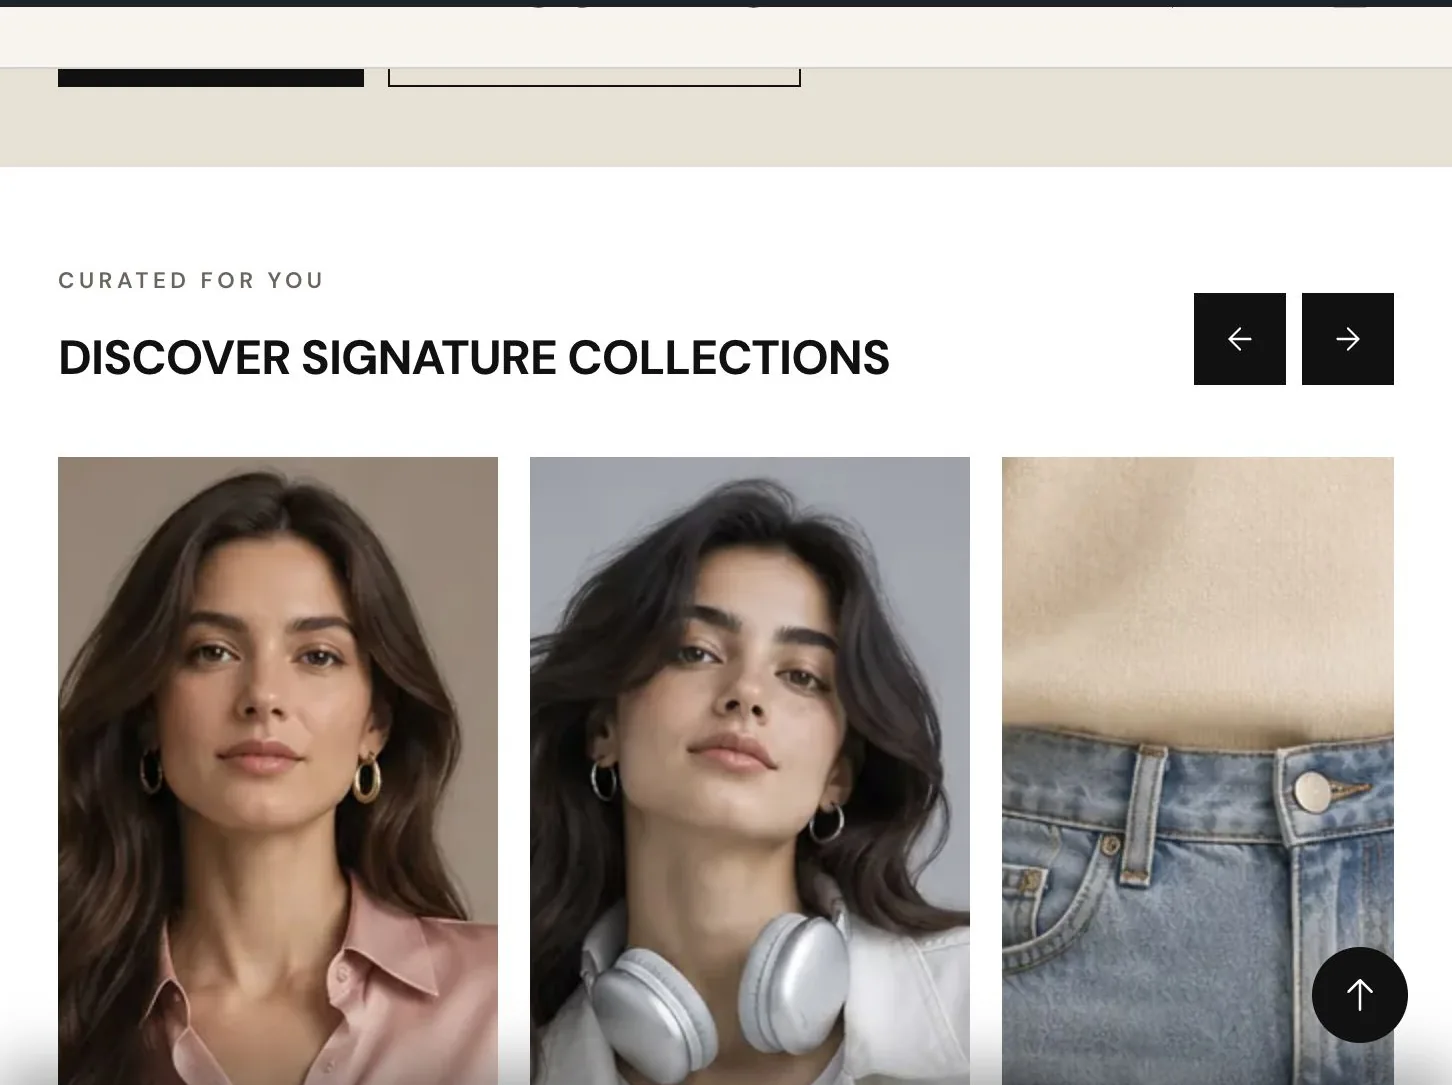
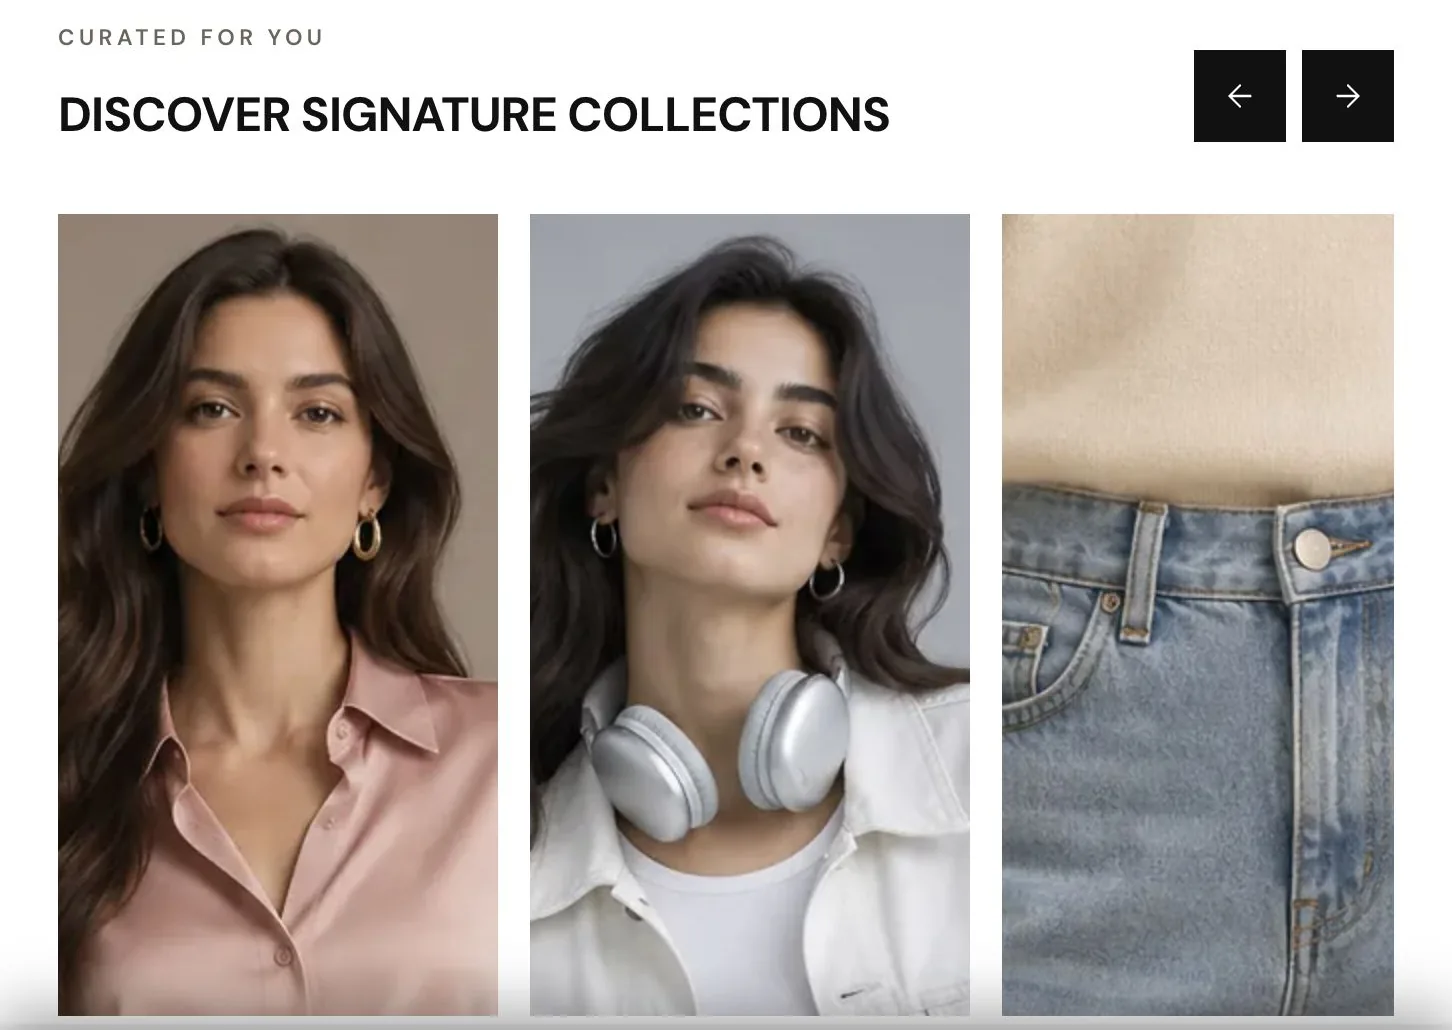
fix: correct case study figure aspect ratios and screenshot crops

diff --git a/src/components/figure.tsx b/src/components/figure.tsx
@@ -5,6 +5,9 @@ type FigureProps = {
   src: string;
   alt: string;
   caption?: string;
+  /** Intrinsic image size. Defaults to 16:9 for existing article figures. */
+  width?: number;
+  height?: number;
 };
 
 /**
@@ -12,14 +15,14 @@ type FigureProps = {
  * right after the text that introduces the concept it illustrates. Unlike
  * the single hero image in frontmatter, an article can contain many of these.
  */
-export function Figure({ src, alt, caption }: FigureProps) {
+export function Figure({ src, alt, caption, width = 1600, height = 900 }: FigureProps) {
   return (
     <figure className="my-8 overflow-hidden rounded-2xl border border-border bg-surface not-prose">
       <Image
         src={src}
         alt={alt}
-        width={1600}
-        height={900}
+        width={width}
+        height={height}
         sizes="(max-width: 672px) 100vw, 672px"
         className="h-auto w-full object-cover"
       />

diff --git a/mdx-components.tsx b/mdx-components.tsx
@@ -36,8 +36,14 @@ const components: MDXComponents = {
   ),
   // Inline figures: authors can place <Figure src=... alt=... caption=... />
   // anywhere in an MDX article to support the surrounding paragraph.
-  Figure: ({ src, alt, caption }) => (
-    <Figure src={String(src ?? "")} alt={String(alt ?? "")} caption={caption ? String(caption) : undefined} />
+  Figure: ({ src, alt, caption, width, height }) => (
+    <Figure
+      src={String(src ?? "")}
+      alt={String(alt ?? "")}
+      caption={caption ? String(caption) : undefined}
+      width={width ? Number(width) : undefined}
+      height={height ? Number(height) : undefined}
+    />
   ),
   Lead,
   KeyPoint,
